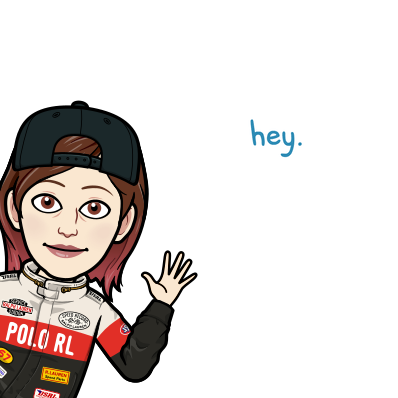
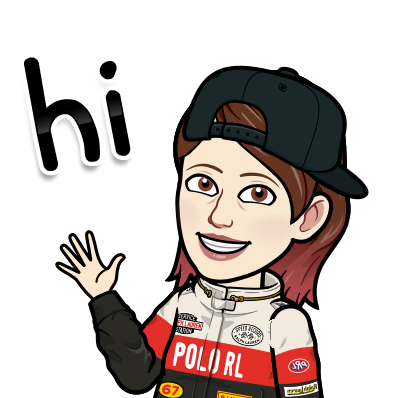
improved colors for blog

diff --git a/src/templates/blog-post.js b/src/templates/blog-post.js
@@ -1,7 +1,7 @@
 import React from "react"
 import { graphql } from "gatsby"
 import styled from "styled-components"
-import colors from '../styles/colors'
+import colors from "../styles/colors"
 
 import Layout from "../components/layout"
 import SEO from "../components/seo"
@@ -13,19 +13,20 @@ const Content = styled.div`
 `
 
 const MarkedHeader = styled.h1`
+  color: ${colors.grey100};
   display: inline;
   border-radius: 1em 0 1em 0;
   background-image: linear-gradient(
     -100deg,
-    ${colors.blue400},
-    ${colors.blue500} 100%,
-    ${colors.blue100}
+    ${colors.blue500},
+    ${colors.green400} 100%,
+    ${colors.purple600}
   );
 `
 
 const HeaderDate = styled.h3`
   margin-top: 10px;
-  color: #606060;
+  color: ${colors.white000};
 `
 
 // STYLE THE TAGS INSIDE THE MARKDOWN HERE
@@ -34,10 +35,7 @@ const MarkdownContent = styled.div`
     text-decoration: none;
     position: relative;
 
-    background-image: linear-gradient(
-      rgba(255, 250, 150, 0.8),
-      rgba(255, 250, 150, 0.8)
-    );
+    background-image: linear-gradient(${colors.grey200}, ${colors.grey200});
     background-repeat: no-repeat;
     background-size: 100% 0.2em;
     background-position: 0 88%;

diff --git a/src/pages/blog.js b/src/pages/blog.js
@@ -9,28 +9,29 @@ import SEO from "../components/seo"
 const Content = styled.div`
   margin: 0 auto;
   max-width: 860px;
-  padding: 1.45rem 1.0875rem;
+  padding: 1.5rem;
 `
 
 const ArticleDate = styled.h5`
   display: inline;
-  color: #606060;
+  color: ${colors.white000};
 `
 
 const MarkerHeader = styled.h3`
+  color: ${colors.grey100};
   display: inline;
-  border-radius: 1em 0 1em 0;
+  border-radius: 2.4em 0 4em 0;
   background-image: linear-gradient(
     -100deg,
-    ${colors.blue400},
-    ${colors.blue500} 100%,
-    ${colors.blue100}
+    ${colors.blue500},
+    ${colors.green400} 100%,
+    ${colors.purple600}
   );
 `
 
 const ReadingTime = styled.h5`
   display: inline;
-  color: ${colors.white000};
+  color: ${colors.grey400};
 `
 
 const IndexPage = ({ data }) => {

diff --git a/src/components/LandingBio/index.jsx b/src/components/LandingBio/index.jsx
@@ -1,7 +1,6 @@
 import React from "react"
 import PropTypes from "prop-types"
 import { StaticQuery, graphql } from "gatsby"
-import Image from "../image"
 import { OuterContainer, Container, NameHeader, Description } from "./styled"
 
 const LandingBio = () => (
@@ -21,7 +20,6 @@ const LandingBio = () => (
         <Container>
           <NameHeader>{data.site.siteMetadata.title}</NameHeader>
           <Description>{data.site.siteMetadata.subtitle}</Description>
-          <Image fadeIn />
         </Container>
       </OuterContainer>
     )}

diff --git a/src/components/Image/index.jsx b/src/components/Image/index.jsx
@@ -1,6 +1,6 @@
 import React from "react"
 import { useStaticQuery, graphql } from "gatsby"
-import Img from "gatsby-image"
+import { StyledImage } from "./styled"
 
 /*
  * This component is built using `gatsby-image` to automatically serve optimized
@@ -30,7 +30,7 @@ const Image = () => {
     return <div>Picture not found</div>
   }
 
-  return <Img fixed={data.placeholderImage.childImageSharp.fixed} />
+  return <StyledImage fixed={data.placeholderImage.childImageSharp.fixed} />
 }
 
 export default Image

diff --git a/src/pages/index.js b/src/pages/index.js
@@ -1,5 +1,5 @@
 import React from "react"
-import { Link } from "gatsby"
+import Image from "../components/Image"
 import LandingBio from "../components/LandingBio"
 import Layout from "../components/Layout"
 import SEO from "../components/seo"
@@ -8,6 +8,7 @@ const IndexPage = () => (
   <Layout>
     <SEO title="Home" keywords={[`gatsby`, `portfolio`, `react`]} />
     <LandingBio />
+    <Image fadeIn />
   </Layout>
 )
 

diff --git a/src/components/Footer/styled.jsx b/src/components/Footer/styled.jsx
@@ -1,11 +1,11 @@
-import styled from 'styled-components'
+import styled from "styled-components"
 
 export const FooterWrapper = styled.footer`
-    font-weight: 700;
-    text-align: center;
-    position: absolute;
-    left: 0;
-    right: 0;
-    bottom: 0;
-    padding-bottom: 14px;
+  font-weight: 700;
+  text-align: center;
+  position: static;
+  left: 0;
+  right: 0;
+  bottom: 0;
+  padding-bottom: 14px;
 `

diff --git a/src/components/Image/styled.jsx b/src/components/Image/styled.jsx
@@ -1,0 +1,15 @@
+import Img from "gatsby-image"
+import styled from "styled-components"
+
+export const StyledImage = styled(Img)`
+  display: flex;
+  justify-content: center;
+  align-items: center;
+  margin-top: -16rem;
+  opacity: 0.9;
+  &:hover {
+    cursor: pointer;
+    transform: rotate(10deg);
+    transition-duration: 0.3s;
+  }
+`
